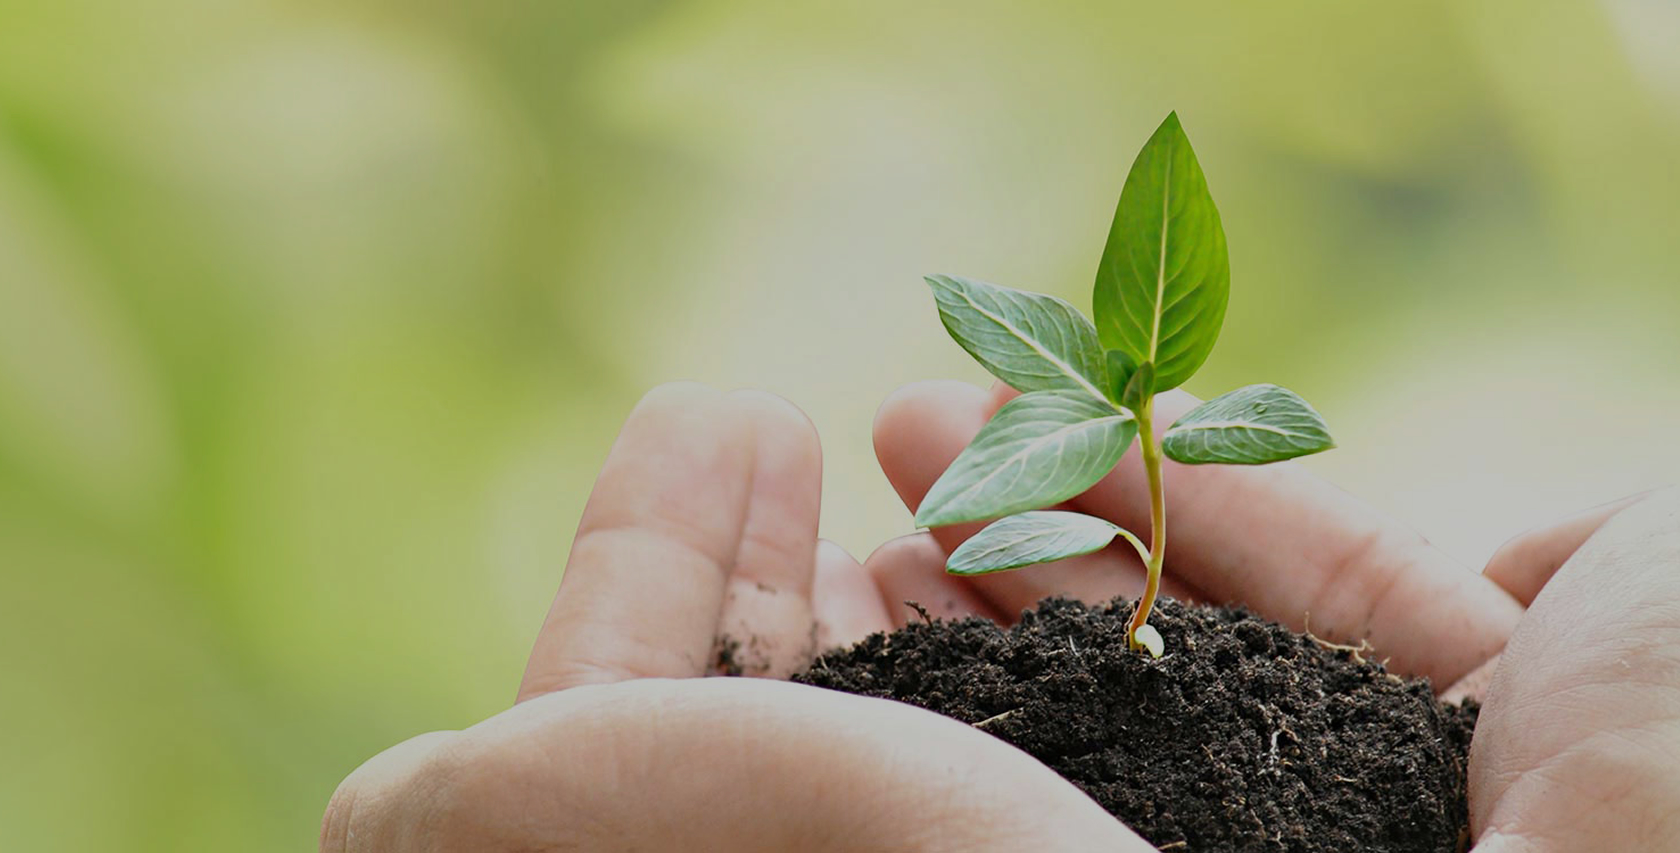
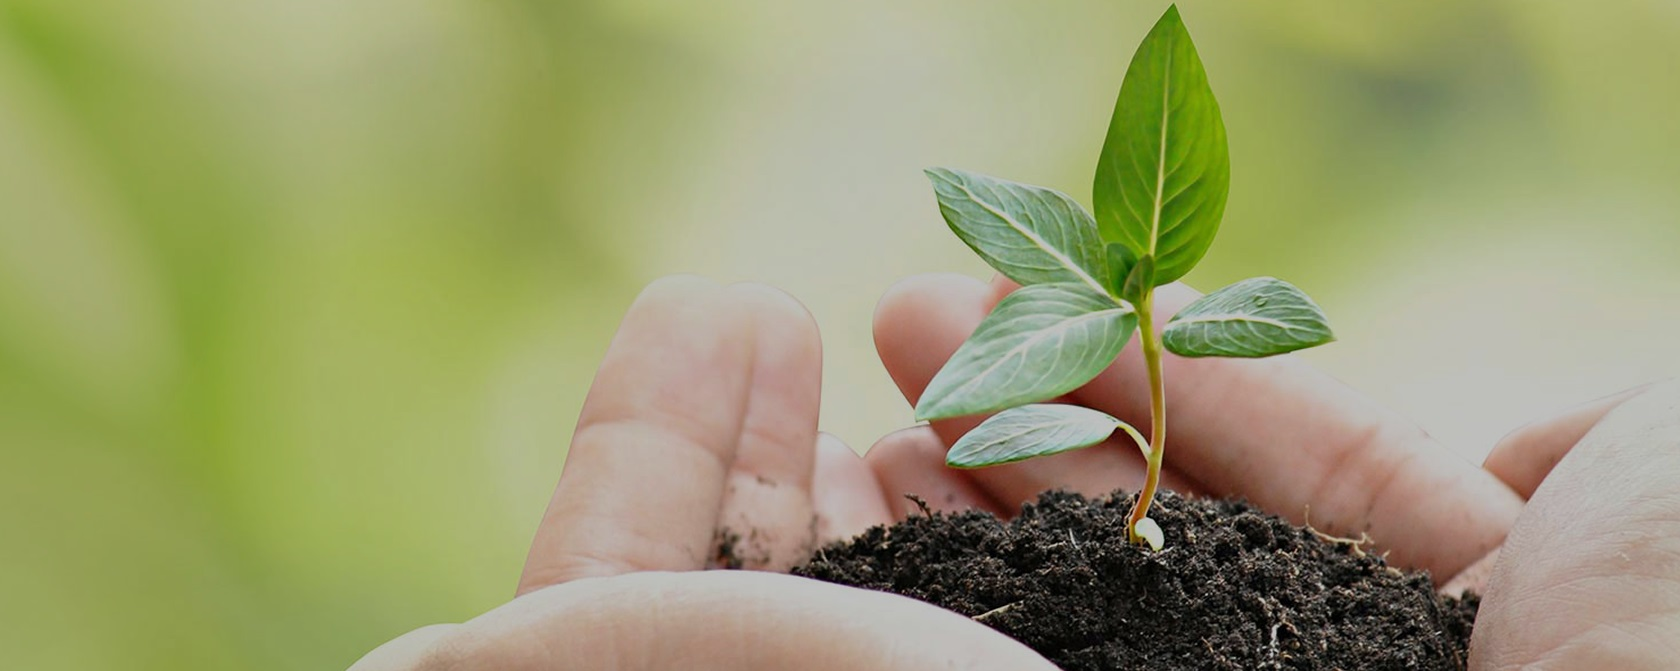
Capa

diff --git a/index.html b/index.html
@@ -6,10 +6,16 @@
   <title>Document</title>
   <link rel="stylesheet" href="src/css/style.css">
   <link rel="stylesheet" href="src/css/paineis.css">
+  <link rel="stylesheet" href="src/css/imgs.css">
   <link rel="shortcut icon" href="favicon.ico" type="image/x-icon">
 </head>
 <body>
-  <div class="painel-1">
+  <div class="painel-1-topo">
+    <img src="src/img/logo-cor.jpg" alt="" class="img-logo">
+    <p class="titulo-p1"> Alves Ambiental</p>
+  </div>
+  <div class="painel-1-capa">
+    <img src="src/img/fundo-capa.jpg" alt="" class="img-fundo-p1">
     <h2>Minha página</h2>
     <p> Esta pagina está em construcao</p>
   </div>

diff --git a/src/css/paineis.css b/src/css/paineis.css
@@ -1,3 +1,9 @@
-.painel-1 {
-    background-image: url(src/img/fundo-capa.jpg);
+.painel-1-topo {
+    position: absolute;
+    display:inline-flex
+}
+
+.painel-1-capa {
+    position: absolute;
+    display:inline-flex
 }

diff --git a/src/css/imgs.css b/src/css/imgs.css
@@ -1,0 +1,11 @@
+.img-fundo-p1 {
+    width: 100%;
+    top: 150px;
+    position: relative;
+}
+
+.img-logo {
+    position: relative;
+    height: 500px;
+    top: 0px;
+}

diff --git a/src/css/style.css b/src/css/style.css
@@ -1,0 +1,6 @@
+.titulo-p1 {
+    position: relative;
+    font-size: 20px;
+    top: 20PX;
+    left: 600PX;
+}
